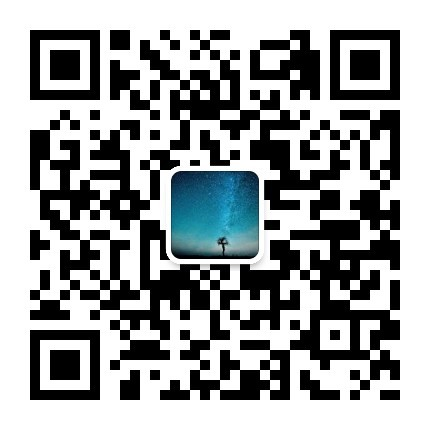
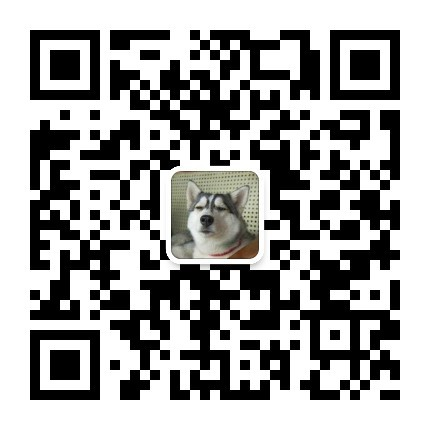
2017.09.07

diff --git a/_includes/article-footer.html b/_includes/article-footer.html
@@ -2,7 +2,7 @@
 <hr>
 <center>
     <p>欢迎关注我的微信公众号</p>
-    <p><strong>九九叔的科技吧啦</strong></p>
-    <img src="/assets/images/qrcode.jpg" alt="九九叔的科技吧啦" />
+    <p><strong>Hello Man</strong></p>
+    <img src="/assets/images/qrcode.jpg" alt="Hello Man" />
 </center>
 {% endif %}
